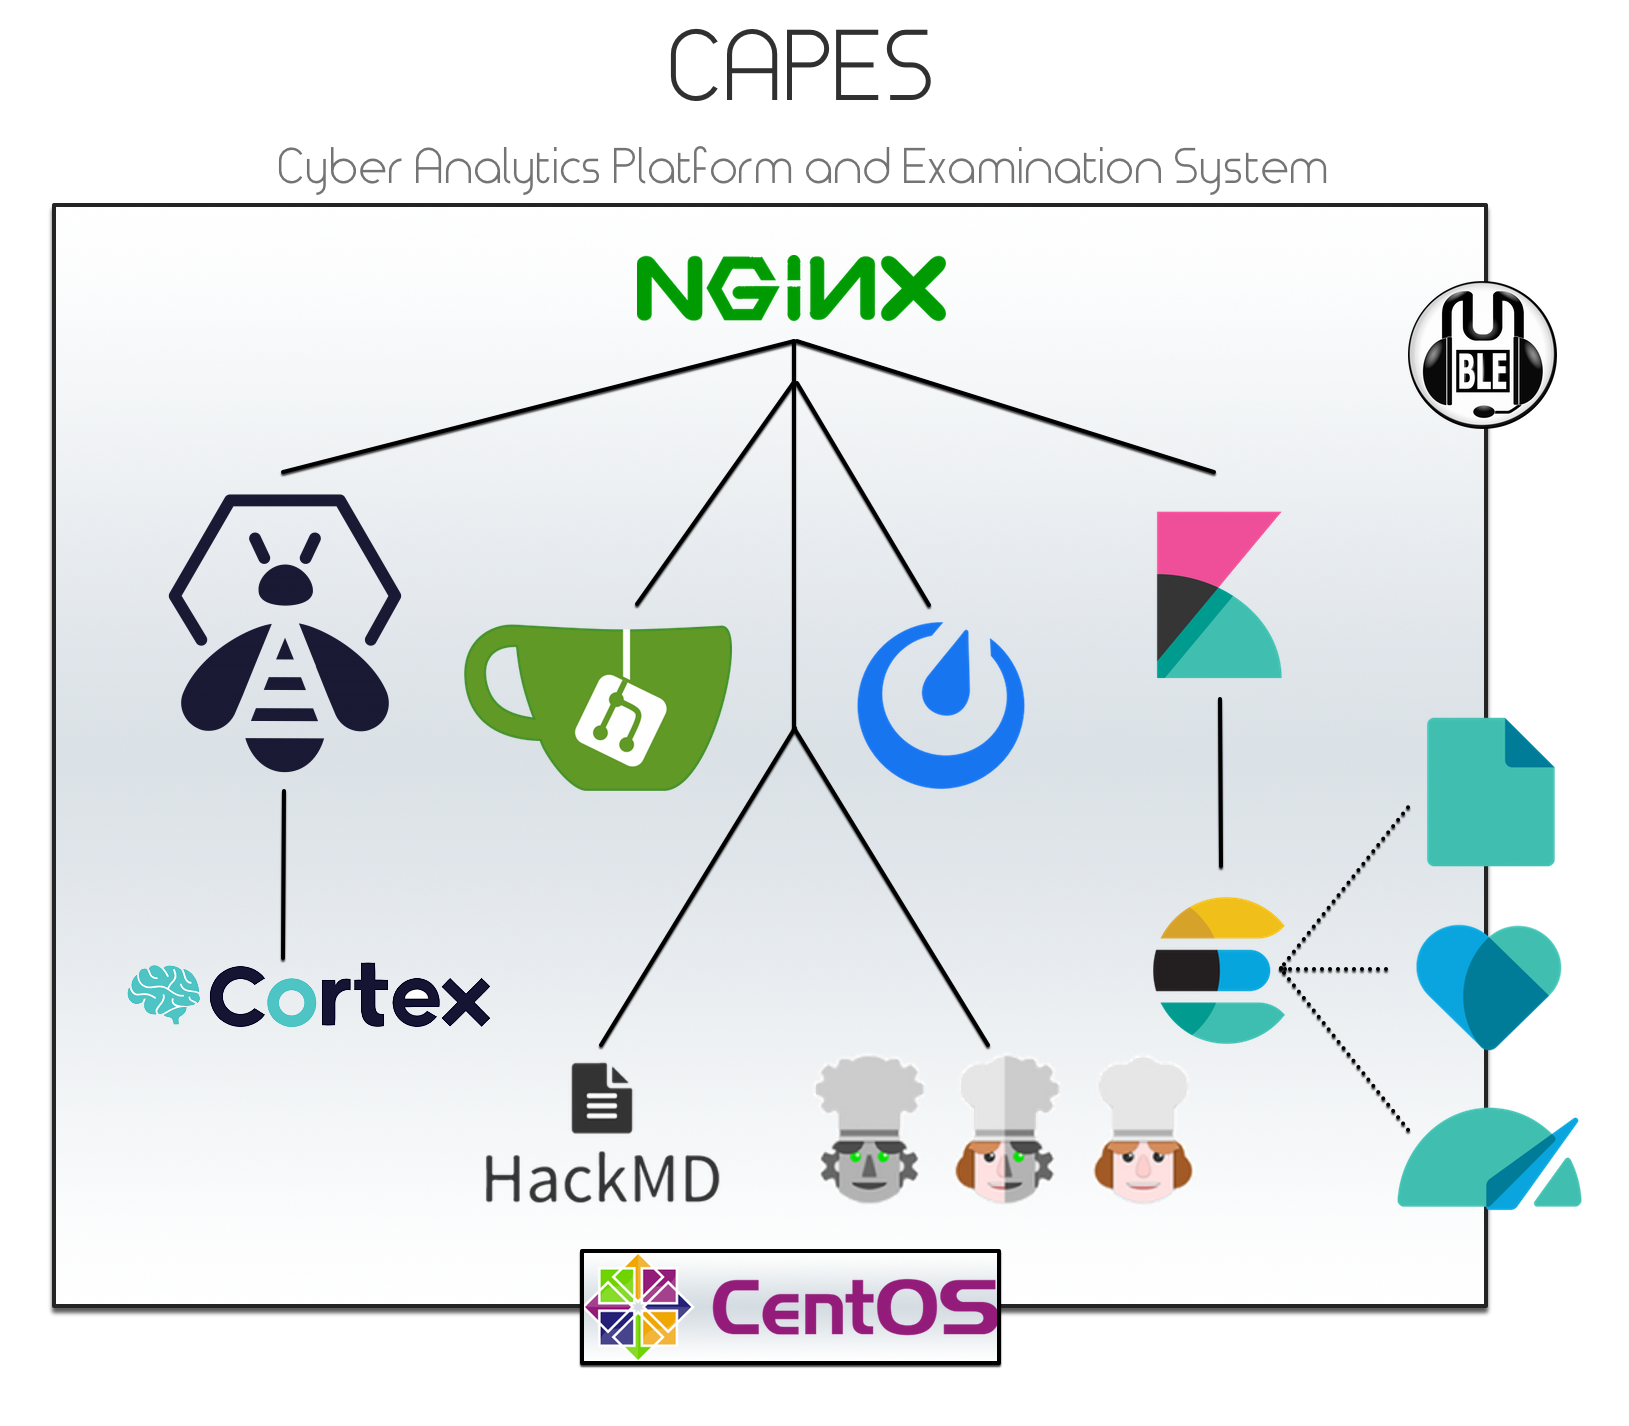
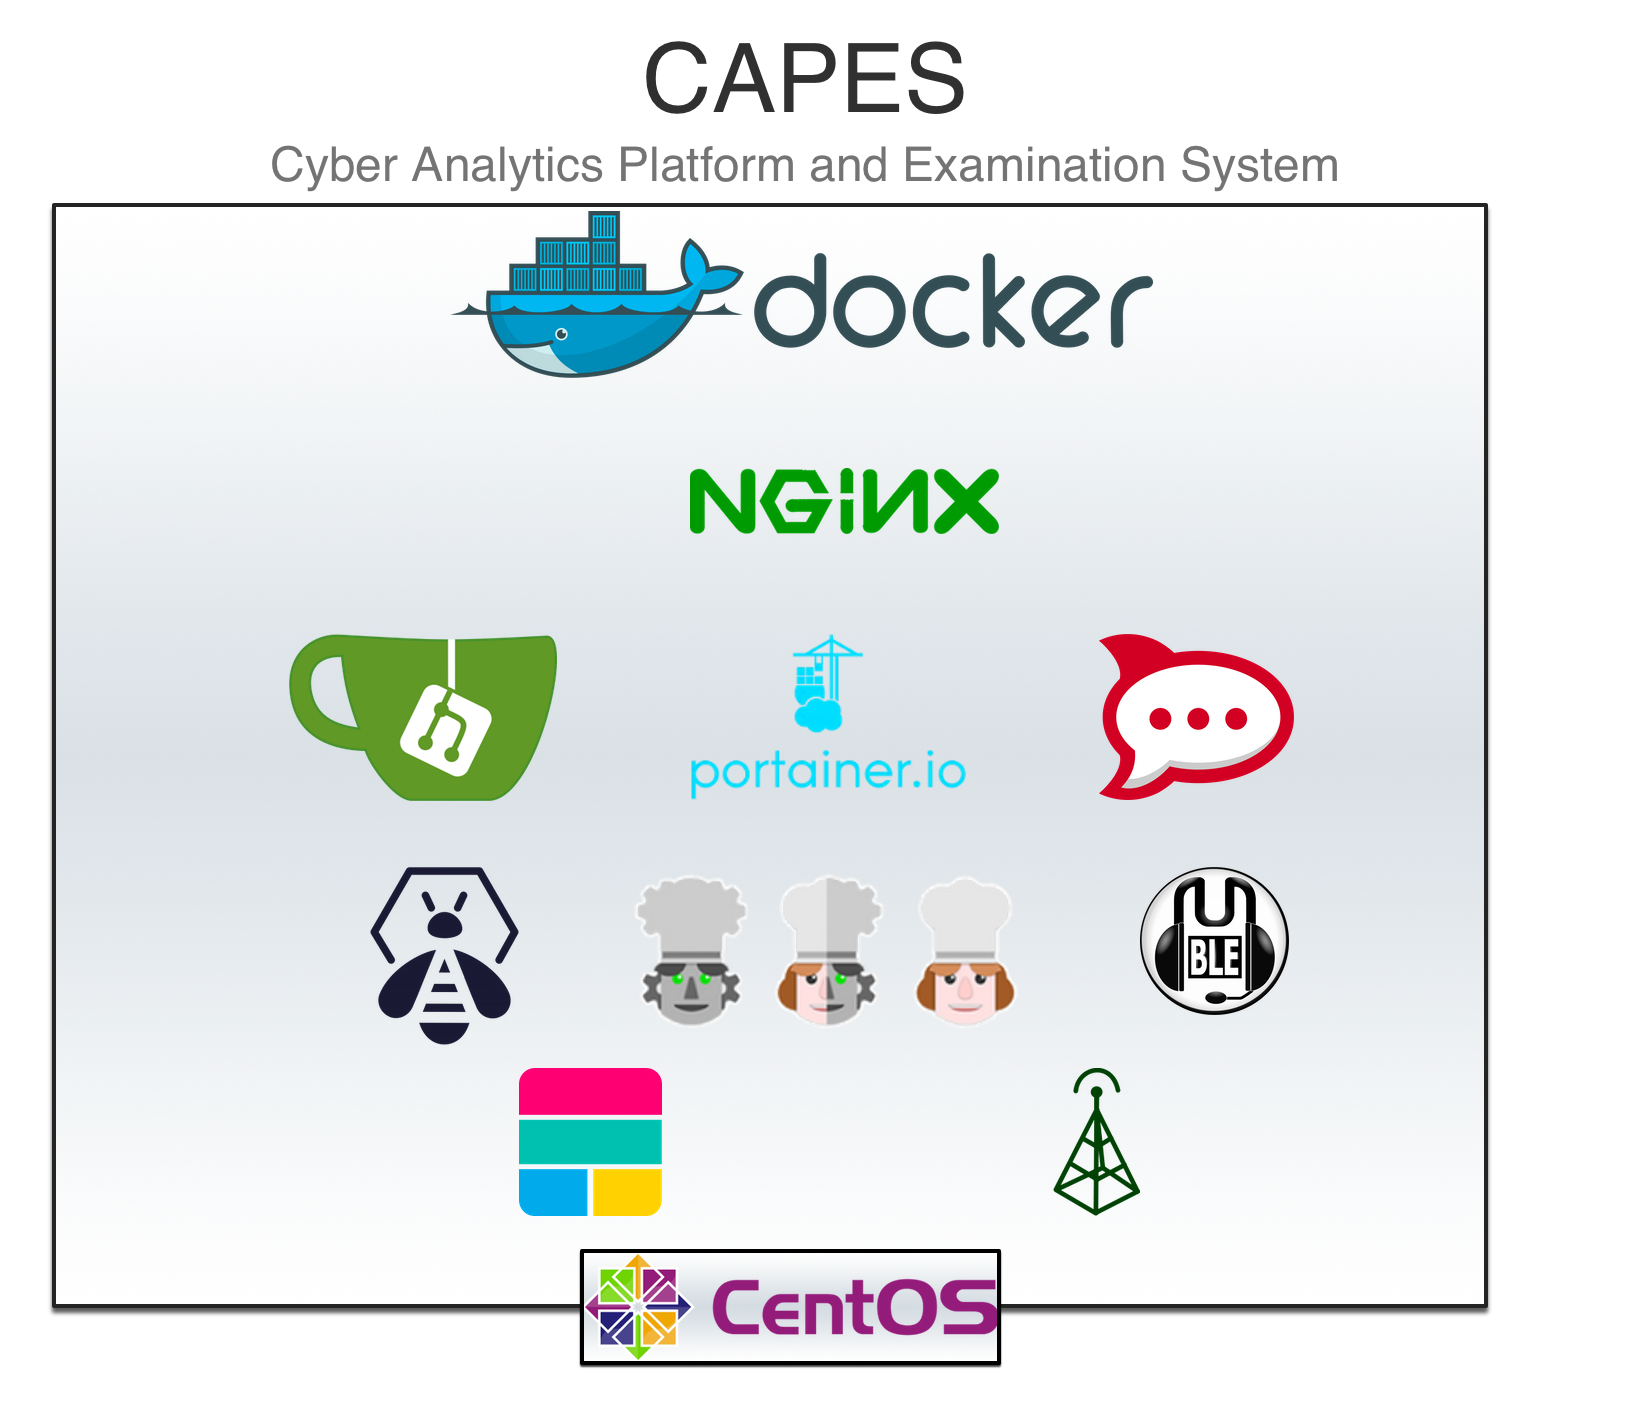
updated arch

diff --git a/index.md b/index.md
@@ -3,11 +3,10 @@
 CAPES is an operational-focused service hub for segmented, self-hosted, and offline (if necessary) incident response, intelligence analysis, and hunt operations.
 
 # Services in CAPES
-1. Mattermost (Chat)
-1. HackMD (Collaboration-style documentation)
+1. Rocketchat (Chat)
+1. Etherpad (Collaboration-style documentation)
 1. Gitea (Version controlled documentation)
 1. TheHive (Incident Response)
-1. Cortex (Indicator enrichment)
 1. CyberChef (Data analysis)
 1. Mumble (VoIP)
 1. Beats - Metric, Heart, and File (Performance and health metrics)
@@ -19,11 +18,10 @@ CAPES is an operational-focused service hub for segmented, self-hosted, and offl
 Please see below for Build, Operate, Maintain specifics on the different web applications
 * [Build Your OS](https://github.com/capesstack/capes/tree/master/docs#build-your-os)  
 * [CAPES Landing Page](https://github.com/capesstack/capes/blob/master/landing_page/build_operate_maintain.md)  
-* [Mattermost](https://github.com/capesstack/capes/blob/master/mattermost/build_operate_maintain.md)  
-* [HackMD](https://github.com/capesstack/capes/blob/master/hackmd/build_operate_maintain.md)  
+* [Rocketchat](https://github.com/capesstack/capes/blob/master/rocketchat/build_operate_maintain.md)  
+* [Etherpad](https://github.com/capesstack/capes/blob/master/etherpad/build_operate_maintain.md)  
 * [Gitea](https://github.com/capesstack/capes/blob/master/gitea/build_operate_maintain.md)  
 * [TheHive](https://github.com/capesstack/capes/blob/master/thehive/build_operate_maintain.md)  
-* [Cortex](https://github.com/capesstack/capes/blob/master/cortex/build_operate_maintain.md)  
 * [CyberChef](https://github.com/capesstack/capes/blob/master/cyberchef/build_operate_maintain.md)
 * [Mumble](https://github.com/capesstack/capes/blob/master/mumble/build_operate_maintain.md)  
 * [Beats](https://github.com/capesstack/capes/blob/master/beats/build_operate_maintain.md)
@@ -32,7 +30,7 @@ Please see below for Build, Operate, Maintain specifics on the different web app
 # Requirements
 There has not been extensive testing with these requirements, but all of these services have run without issue on a single virtual machine with approximately 20 users and no issue for a week (I'm sure it would have kept running, 1 week was just when we stopped our testing). That said, your mileage may vary.
 
-**While the OS version isn't a hard requirement, all testing and development work has been done with `CentOS 7.4.1708 (Core)`.**
+**While the OS version isn't a hard requirement, all testing and development work has been done with `CentOS 7.6 (Core)`.**
 
 | Component | Number |
 | - | - |
@@ -45,27 +43,24 @@ There has not been extensive testing with these requirements, but all of these s
 Finally, here we go.
 ```
 sudo yum install git -y
-git clone https://github.com/capesstack/capes.git
-cd capes
+git clone https://github.com/capesstack/capes-docker.git
+cd capes-docker
 sudo sh deploy_capes.sh
 ```
 This will start the automated build of:
-* Configure NTP (likely already done, but in the event you skipped the [Build your OS](https://github.com/capesstack/capes/tree/master/docs#build-your-os) steps)
-* Install Kibana
-* Install Filebeat
-* Install Metricbeat
-* Install Heartbeat
-* Install Mattermost  
-* Install Gitea  
-* Install HackMD  
-* Install Mumble  
-* Install TheHive  
-* Install Cortex  
-* Install Nginx  
-* Install CyberChef    
-* Install the CAPES landing page  
-* Secure the MySQL installation  
-* Set everything to autostart  
+* Install Docker
+* Collect the following images and start a containerized service of:
+  * Elasticsearch
+  * Kibana
+  * Heartbeat
+  * Etherpad
+  * Gitea  
+  * Rocketchat
+  * Mumble  
+  * TheHive  
+  * Nginx  
+  * CyberChef    
+* Configure the CAPES landing page  
 
 # Get Started
 After the CAPES installation, you should be able to browse to `http://your_capes_system` (or `http://your_capes_IP` if you don't have DNS set up) get get to the CAPES landing page and start setting up services by following the [post installation steps](https://github.com/capesstack/capes/tree/master/docs#post-installation).
@@ -74,8 +69,6 @@ Although most of these services are fairly intuitive, I **strongly** recommend t
 
 # Troubleshooting
 Please see the [documentation](https://github.com/capesstack/capes/tree/master/docs#documentation) or feel free to open a [GitHub Issue](https://github.com/capesstack/capes/issues).
-
-You can run `$ capes_processes` to make sure all of your processes are running.
 
 Want to join the discussion? Send a request to join our Slack Workspace to contact [at] capesstack[.]io
 
